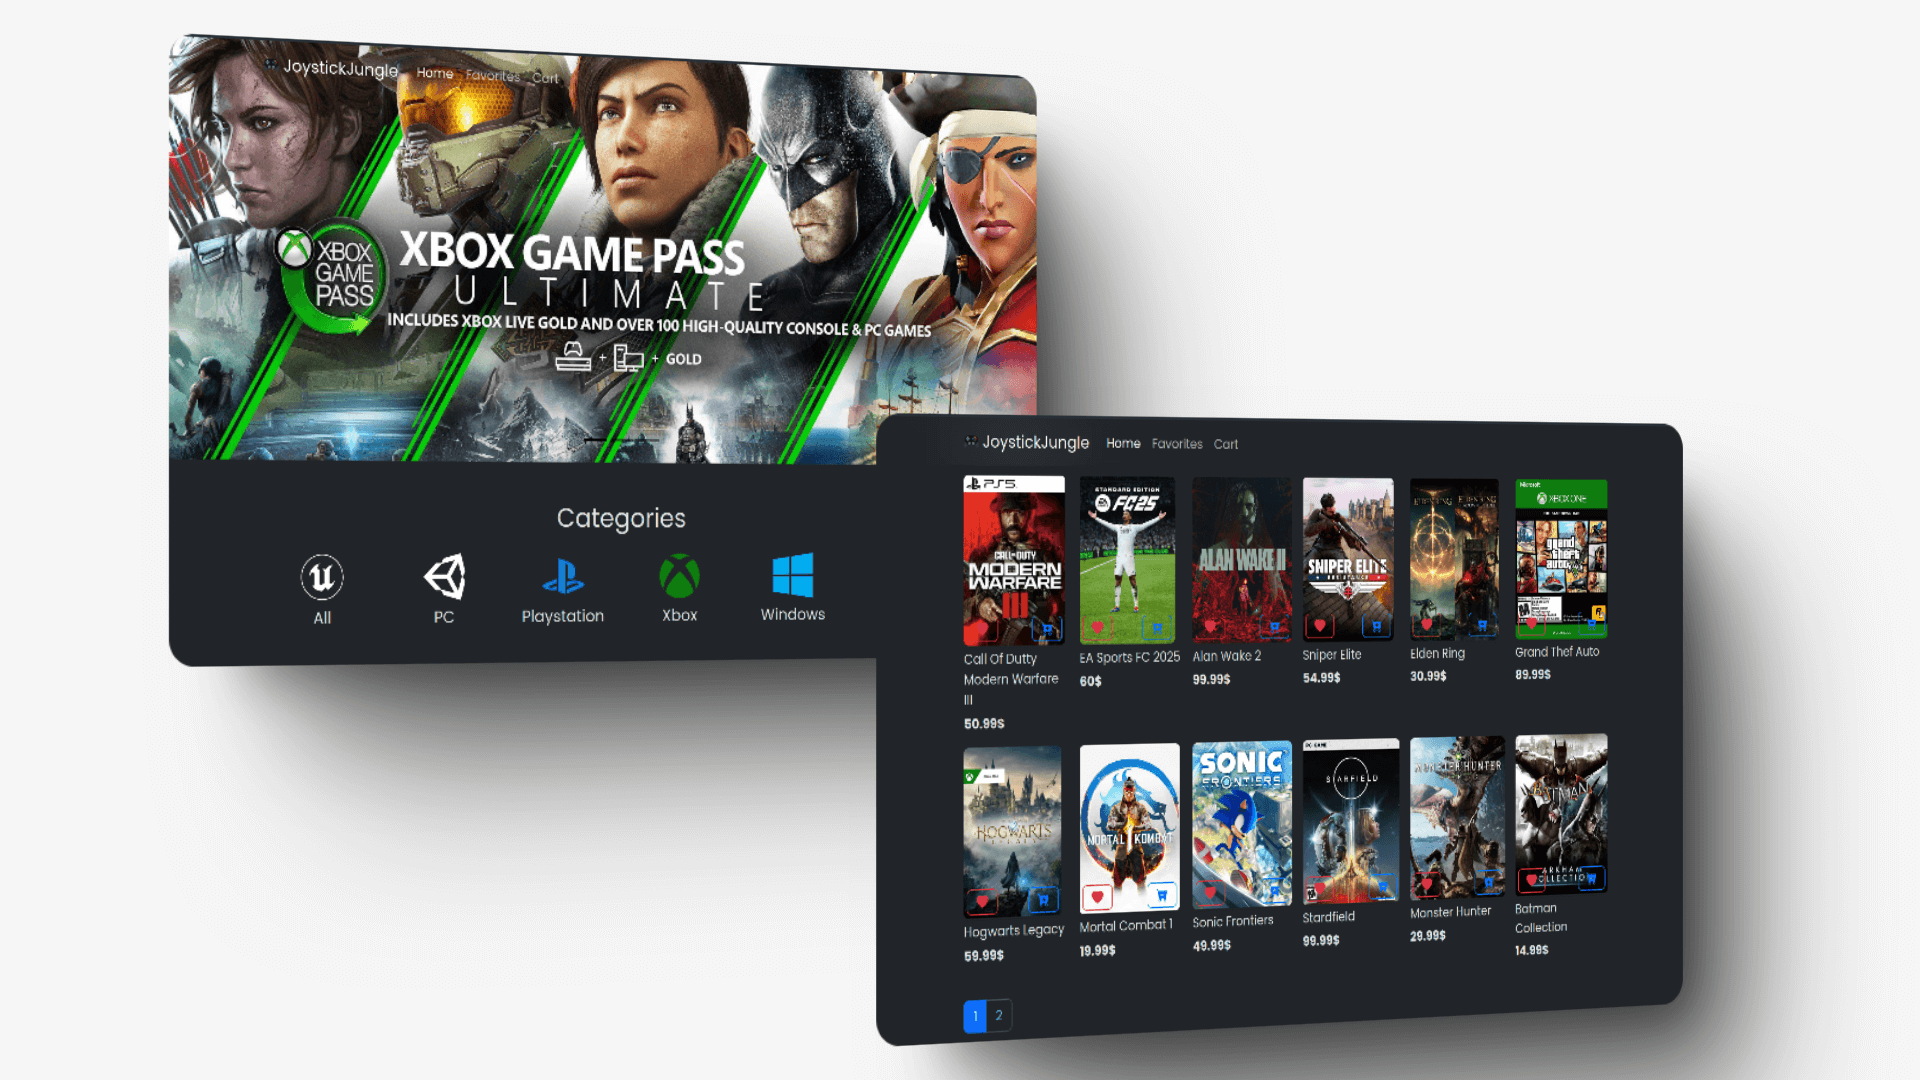
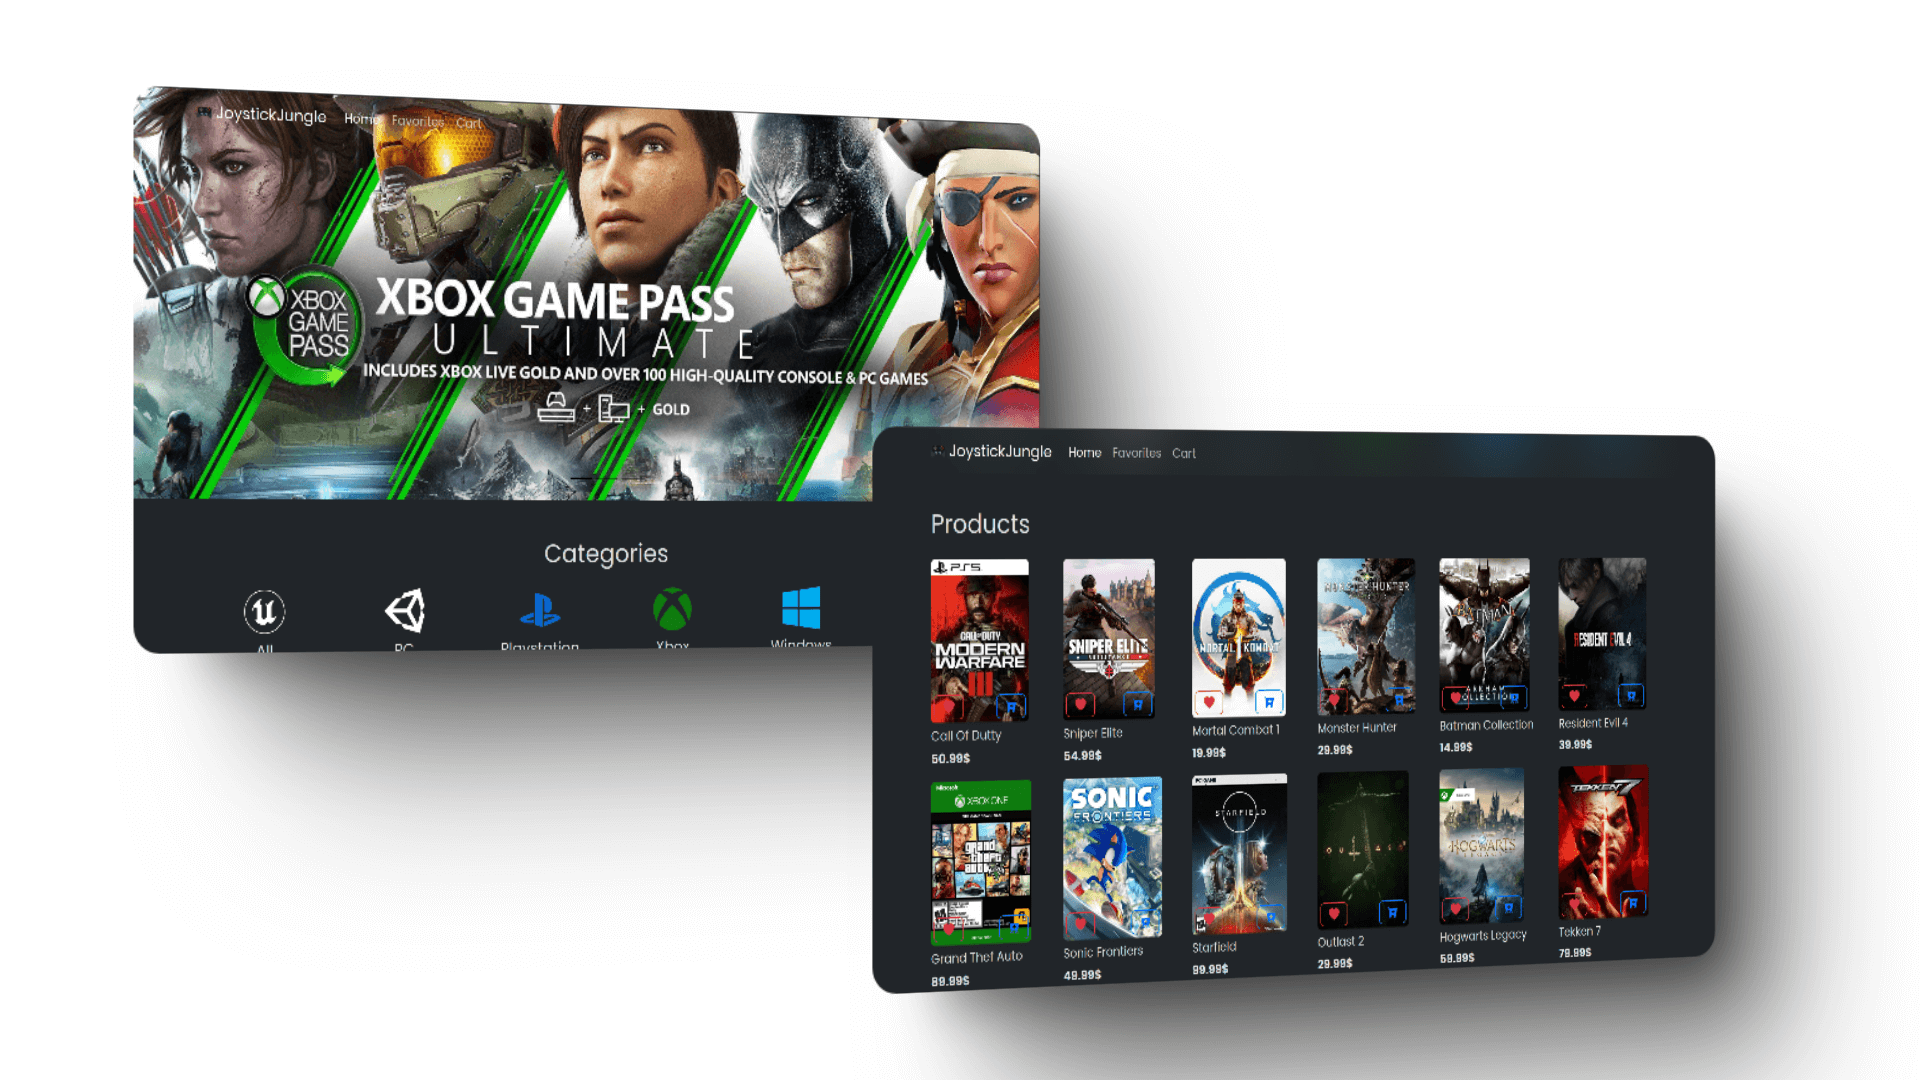
Updated API Docs link and Project images

diff --git a/index.html b/index.html
@@ -1091,16 +1091,16 @@
                 Source Code
               </a>
               <a
-                href="https://github.com/asx-dev/saas-website"
+                href="https://documenter.getpostman.com/view/31079873/2sAYX5M3M8"
                 class="code__link text"
                 target="_blank"
               >
-                <i class="fa-solid fa-globe icon"></i>Live Preview
+                <i class="fa-solid fa-globe icon"></i>API Docs
               </a>
             </div>
             <div>
               <img
-                src="/assets/img/saas.png"
+                src="/assets/img/api.png"
                 alt="website-design"
                 class="project__img"
               />
